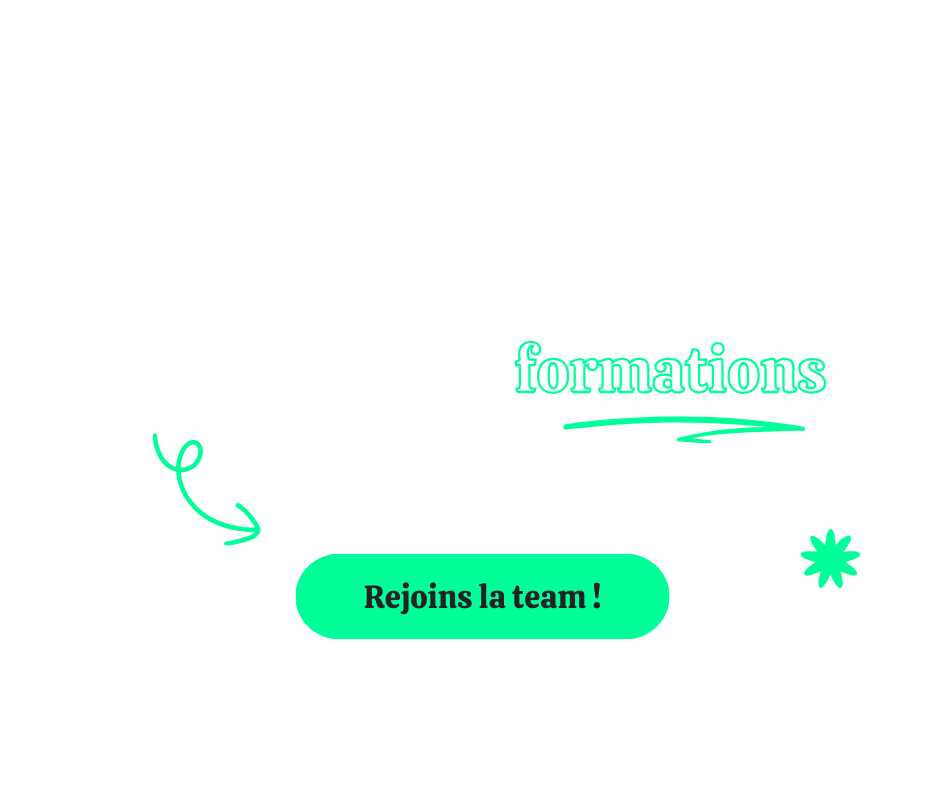
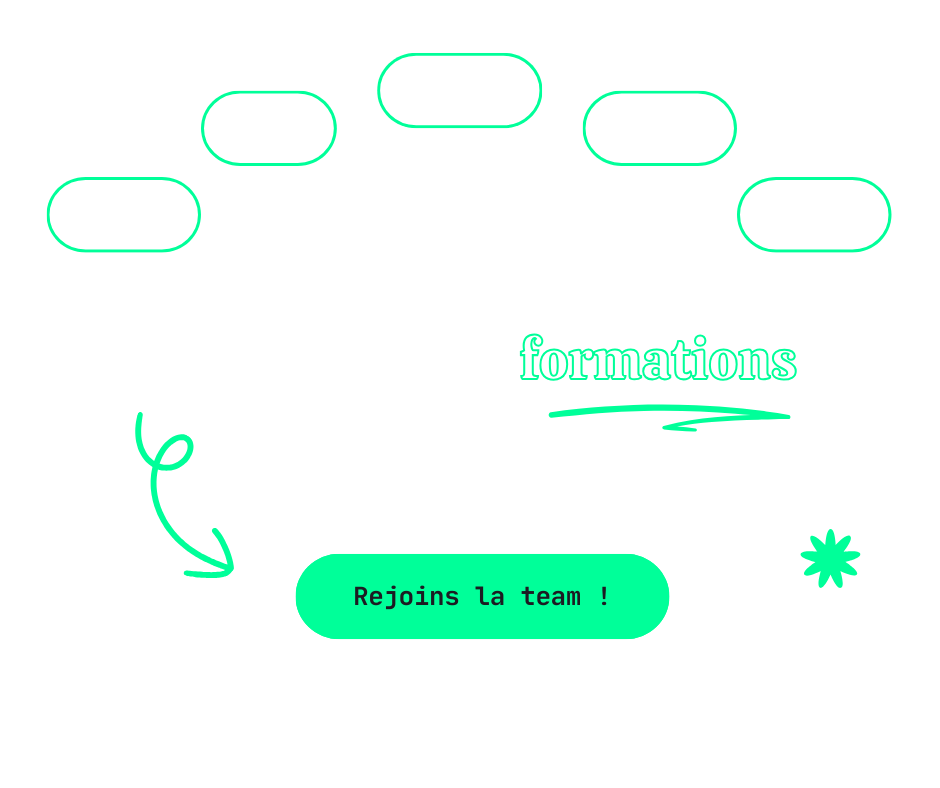
Change design

diff --git a/components/hero.tsx b/components/hero.tsx
@@ -2,9 +2,8 @@
 
 import React from "react";
 import { Button } from "@/components/ui/button";
-import { ArrowRight, ChevronDown } from "lucide-react";
+import { ArrowRight } from "lucide-react";
 import TrainingImg from "./formation-img";
-import Linkedin from "./ui/linkedin";
 
 const Hero: React.FC = () => {
   const scrollToSection = () => {
@@ -15,49 +14,42 @@ const Hero: React.FC = () => {
   };
 
   return (
-    <div className="lg:grid lg:grid-cols-12 lg:gap-8 items-center pb-28 pt-8 relative">
-      <div className="sm:text-center md:max-w-2xl md:mx-auto lg:col-span-6 lg:text-left">
-        <div className="flex items-center space-x-6">
-          <div className="bg-customGreen w-10 h-10 rounded-full rounded-tl-none group-hover:-translate-y-1 group-hover:shadow-xl group-hover:via-green-600 transition-all"></div>
-          <h1 className="text-2xl font-bold text-white/90 tracking-tight sm:text-3xl md:text-3xl">
-            Ton Partenaire Idéal pour
-            <span className="block text-customGreen">Créer et Maîtriser le Web</span>
-          </h1>
-        </div>
-        <p className="mt-3 text-base text-white/80 sm:mt-5 sm:text-xl lg:text-lg xl:text-xl">
-          Je t’accompagne à apprendre le métier de développeur et à devenir autonome, tout en
-          proposant mes services pour créer des solutions web accessibles et optimisées pour un SEO
-          exceptionnel.
-        </p>
-        <div className="mt-8 sm:max-w-lg sm:mx-auto sm:text-center lg:text-left lg:mx-0">
-          <div className="flex items-center gap-6">
-            <a
-              href="https://hanichezahir-portfolio.vercel.app/"
-              target="_blank"
-              rel="noopener noreferrer"
-            >
-              <Button className="justify-center whitespace-nowrap rounded-full font-semibold ring-offset-white transition-colors border border-customGreen 
-                    bg-transparent text-customGreen hover:bg-customGreen hover:text-primary h-[56px] px-8 text-sm tracking-[2px] uppercase flex items-center gap-2">
-                En Savoir Plus Sur Moi
-                <ArrowRight className="ml-2 h-5 w-5" />
-              </Button>
-            </a>
-            <Linkedin />
-          </div>
-        </div>
+    <div className="h-screen flex flex-col justify-center items-center text-center bg-transparent relative bottom-24">
+      <div className="flex items-center space-x-6 mb-4">
+        <div className="bg-customGreen w-1.5 h-24 border-full rounded-tl-none transition-all"></div>
+        <h1 className="text-3xl font-bold text-white tracking-tight sm:text-4xl md:text-5xl">
+          Ton Partenaire Idéal pour
+          <span className="block text-customGreen">Créer et Maîtriser le Web</span>
+        </h1>
+        <div className="bg-customGreen w-1.5 h-24 border-full rounded-tl-none transition-all"></div>
       </div>
-      <div className="mt-12 relative sm:max-w-lg sm:mx-auto lg:mt-0 lg:max-w-none lg:mx-0 lg:col-span-6 lg:flex lg:items-center">
-        <TrainingImg />
+      <p className="mt-3 text-lg text-white/80 sm:mt-5 sm:text-xl">
+        Je t’accompagne à apprendre le métier de développeur et à devenir autonome, tout en
+        proposant mes services pour créer des solutions web accessibles et optimisées pour un SEO
+        exceptionnel.
+      </p>
+      <div className="mt-8 flex justify-center">
+        <a
+          href="https://hanichezahir-portfolio.vercel.app/"
+          target="_blank"
+          rel="noopener noreferrer"
+        >
+          <Button className="justify-center whitespace-nowrap rounded-full font-semibold ring-offset-white transition-colors border border-customGreen 
+              bg-transparent text-customGreen hover:bg-customGreen hover:text-primary h-[56px] px-8 text-sm tracking-[2px] uppercase flex items-center gap-2">
+            En Savoir Plus Sur Moi
+            <ArrowRight className="ml-2 h-5 w-5" />
+          </Button>
+        </a>
       </div>
       <div
-        className="absolute bottom-4 left-1/2 transform -translate-x-1/2 cursor-pointer pb-8"
+        className="absolute bottom-10 left-1/2 transform -translate-x-1/2 cursor-pointer"
         onClick={scrollToSection}
       >
         <button
-          className="cursor-pointer bg-customGreen px-3 py-2 rounded-md text-gray-900 tracking-wider shadow-xl animate-bounce hover:animate-none"
+          className="bg-customGreen px-3 py-2 rounded-md text-gray-900 tracking-wider shadow-xl animate-bounce hover:animate-none"
         >
           <svg
-            className="w-5 h-5"
+            className="w-6 h-6"
             stroke="currentColor"
             strokeWidth="2"
             viewBox="0 0 24 24"

diff --git a/components/presentation.tsx b/components/presentation.tsx
@@ -3,28 +3,33 @@ import React from "react";
 
 const PresentationProfil: React.FC = () => {
   return (
-    <div className="max-w-7xl mx-auto px-4 sm:px-6 lg:px-8">
-        <div className="lg:grid lg:grid-cols-2 lg:gap-8 lg:items-center">
-            <div className="mt-8 lg:mt-0 flex justify-center lg:justify-end">
-                <a
-                href="https://github.com/leerob/next-saas-starter"
-                target="_blank"
-                rel="noopener noreferrer"
-                >
-                <Terminal />
-                </a> 
-            </div>
-            <div>
-                <h2 className="text-3xl font-bold text-white/90 sm:text-3xl">
-                Pourquoi choisir nos Services ?
-                </h2>
-                <p className="mt-3 max-w-3xl text-lg text-white/80">
-                Que vous soyez débutant ou professionnel, nous sommes là pour vous accompagner à chaque 
-                étape. De la formation pratique à la création de sites web sur mesure, nous nous engageons à vous fournir des solutions efficaces et adaptées à vos besoins.
-                </p>
-            </div>
+    <div className="max-w-7xl mx-auto px-4 sm:px-6 lg:px-10">
+      <div className="lg:grid lg:grid-cols-2 lg:gap-10 lg:items-center">
+        <div>
+          <h2 className="text-3xl font-bold text-white/90 sm:text-2xl">
+            Découvrez Mon Parcours
+          </h2>
+          <p className="mt-3 max-w-3xl text-sm text-white/80">
+            <span className="font-semibold text-customGreen">Plus de 10 ans d'expérience</span> en développement web.  
+            <br /> <br /> 
+            <span className="font-semibold text-customGreen">Expert en solutions numériques innovantes</span>, performantes et sur mesure.  
+            <br /> <br /> 
+            <span className="font-semibold text-customGreen">J'accompagne entreprises et startups </span>pour des sites web accessibles, optimisés et prêts à booster leur réussite.
+          </p>
+
+         
         </div>
-        <div className="border-b border-white/20 w-full py-8"></div>
+        <div className="mt-8 lg:mt-0 flex justify-center lg:justify-end">
+          <a
+            href="https://github.com/ZahirHaniche-dev"
+            target="_blank"
+            rel="noopener noreferrer"
+          >
+            <Terminal />
+          </a>
+        </div>
+      </div>
+      <div className="bg-customGreen w-full h-0.5 rounded-lg border-full rounded-tl-none transition-all my-20"></div>
     </div>
   );
 };

diff --git a/components/why.tsx b/components/why.tsx
@@ -3,20 +3,28 @@ import DesktopImg from './desktop-img ';
 
 const Why: React.FC = () => {
   return (
-    <div className="lg:grid lg:grid-cols-2 lg:gap-8 lg:items-center">
-      <div>
-        <h2 className="text-3xl font-bold text-white/90 sm:text-3xl">
-          Pourquoi choisir nos Services ?
-        </h2>
-        <p className="mt-3 max-w-3xl text-lg text-white/80">
-          Que vous soyez débutant ou professionnel, nous sommes là pour vous accompagner à chaque 
-          étape. De la formation pratique à la création de sites web sur mesure, nous nous engageons à vous fournir des solutions efficaces et adaptées à vos besoins.
-        </p>
+    <>
+      <div className="lg:grid lg:grid-cols-2 lg:gap-8 lg:items-center">
+        <div className="mt-8 lg:mt-0 flex justify-center">
+          <DesktopImg />
+        </div>
+        <div>
+          <h2 className="text-3xl font-bold text-white/90 sm:text-2xl">
+            Pourquoi choisir nos formations ?
+          </h2>
+          <p className="mt-3 max-w-3xl text-sm text-white/80">
+            Que vous soyez débutant ou en quête de perfectionnement, <span className="font-semibold text-customGreen">nos formations en développement web sont conçues pour vous faire maîtriser les bases et les technologies avancées</span>.
+            <br /> <br />
+            Apprenez à créer des sites web modernes et performants en utilisant les frameworks front-end les plus populaires comme <span className="font-semibold text-customGreen">React, Vue.js et Angular, ainsi que Node.js pour le développement back-end</span>.
+            <br /> <br />
+            Nos cours incluent des pratiques sur la conception, <span className="font-semibold text-customGreen">l'accessibilité, le SEO, et l'intégration des outils indispensables à tout développeur</span>. 
+            <br /> <br />
+            Rejoignez-nous pour bénéficier d'un apprentissage personnalisé et devenir un expert en développement web, prêt à relever tous les défis.
+          </p>
+        </div>
       </div>
-      <div className="mt-8 lg:mt-0 flex justify-center lg:justify-end">
-        <DesktopImg />
-      </div>
-    </div>
+      <div className="bg-customGreen w-full h-0.5 rounded-lg border-full rounded-tl-none transition-all"></div>
+    </>
   );
 };
 

diff --git a/components/ui/linkedin.tsx b/components/ui/linkedin.tsx
@@ -3,7 +3,7 @@
 const Linkedin = () => {
   return (
     <button
-      className="group hover:bg-sky-600 relative bg-sky-700 text-neutral-50 duration-500 font-bold flex justify-start gap-2 items-center p-2 pr-6 rounded-sm"
+      className="group fixed bottom-8 right-8 hover:bg-sky-600 bg-sky-700 text-neutral-50 duration-500 font-bold flex justify-start gap-2 items-center p-2 pr-6 rounded-sm z-50"
     >
       <svg
         className="w-8 h-8 fill-neutral-50"
@@ -19,16 +19,11 @@ const Linkedin = () => {
       </svg>
       <span className="border-l-2 pl-4 flex items-center">
         LinkedIn
-        <span className="relative flex h-3 w-3 ml-4 ">
+        <span className="relative flex h-3 w-3 ml-4">
           <span className="animate-ping absolute inline-flex h-full w-full rounded-full bg-sky-400 opacity-75"></span>
-          <span className="relative inline-flex rounded-full h-3 w-3  bg-customGreen"></span>
+          <span className="relative inline-flex rounded-full h-3 w-3 bg-customGreen"></span>
         </span>
       </span>
-      <div
-        className="group-hover:opacity-100 opacity-0 top-16 absolute z-10 inline-block px-3 py-2 text-sm font-medium text-white transition-opacity duration-500 bg-sky-600 rounded-lg shadow-sm before:w-3 before:h-3 before:rotate-45 before:-top-1 before:left-20 before:bg-sky-600 before:absolute"
-      >
-        Regarde mon profil !
-      </div>
     </button>
   );
 };

diff --git a/app/(dashboard)/terminal.tsx b/app/(dashboard)/terminal.tsx
@@ -7,11 +7,12 @@ export function Terminal() {
   const [terminalStep, setTerminalStep] = useState(0);
   const [copied, setCopied] = useState(false);
   const terminalSteps = [
-  'Donnons vie à votre projet web...',
-  'Suivez notre formation pour maîtriser les bases.',
-  'Lancement du serveur de développement... 🚀 ',
-  'Votre projet est prêt ! Nous sommes là pour vous accompagner... 🎉',
-];
+    'git add VotreProjet.tsx',
+    'git commit -m "Formation en cours..."',
+    'git push',
+    'Félicitations ! Votre projet est prêt à impressionner le monde 🎉.'
+  ];
+  
 
 
   useEffect(() => {
@@ -31,7 +32,7 @@ export function Terminal() {
   };
 
   return (
-    <div className="w-full rounded-lg shadow-lg overflow-hidden bg-gray-900 text-white font-mono text-base relative">
+    <div className="w-full rounded-lg shadow-lg overflow-hidden border-b-4 border-r-4 hover:border-b-2 hover:border-r-2 border-customGreen bg-gray-900 text-white font-mono text-sm relative">
       <div className="p-4">
         <div className="flex justify-between items-center mb-4">
           <div className="flex space-x-2">

diff --git a/app/layout.tsx b/app/layout.tsx
@@ -3,6 +3,7 @@ import type { Metadata, Viewport } from 'next';
 import { JetBrains_Mono } from 'next/font/google';
 import { UserProvider } from '@/lib/auth';
 import { getUser } from '@/lib/db/queries';
+import Linkedin from '@/components/ui/linkedin';
 
 const jetbrainsMono = JetBrains_Mono({
   subsets: ['latin'],
@@ -30,10 +31,11 @@ export default function RootLayout({
   return (
     <html
       lang="en"
-      className={`bg-white dark:bg-gray-950 text-black dark:text-white ${jetbrainsMono.className}`}
+      className={`bg-white dark:bg-gray-950 text-black dark:text-white  ${jetbrainsMono.className}`}
     >
-      <body className="min-h-[100dvh] ">
+      <body className="space-bg min-h-[100dvh] overflow-auto">
         <UserProvider userPromise={userPromise}>{children}</UserProvider>
+        <Linkedin  />
       </body>
     </html>
   );

diff --git a/app/globals.css b/app/globals.css
@@ -59,6 +59,12 @@
   }
 }
 
+html,
+body {
+  overflow: auto;
+  height: auto;
+}
+
 @layer base {
   * {
     @apply border-border;
@@ -66,6 +72,33 @@
 
   body {
     @apply bg-background text-foreground;
+  }
+}
+
+.space-bg {
+  background: linear-gradient(to bottom, #32323b, black);
+  position: relative;
+  overflow: hidden;
+}
+
+.space-bg::before {
+  content: '';
+  position: absolute;
+  top: 0;
+  left: 0;
+  width: 200%;
+  height: 200%;
+  background: radial-gradient(circle, rgba(255, 255, 255, 0.15) 1px, transparent 1px);
+  background-size: 50px 50px;
+  animation: stars-move 50s linear infinite;
+}
+
+@keyframes stars-move {
+  from {
+    transform: translateY(0);
+  }
+  to {
+    transform: translateY(-100%);
   }
 }
 

diff --git a/app/(dashboard)/layout.tsx b/app/(dashboard)/layout.tsx
@@ -41,10 +41,16 @@ function Header() {
 
         <div className="flex items-center space-x-11 z-10">
           <Link
+            href="/dev"
+            className="text-customGreen border-b-2 border-customGreen capitalize font-medium hover:text-customGreen transition-all"
+          >
+            Mes Services
+          </Link>
+          <Link
             href="/training"
             className="text-customGreen border-b-2 border-customGreen capitalize font-medium hover:text-customGreen transition-all"
           >
-            Formations
+            Mes Formations
           </Link>
           {user ? (
             <DropdownMenu open={isMenuOpen} onOpenChange={setIsMenuOpen}>

diff --git a/app/(dashboard)/page.tsx b/app/(dashboard)/page.tsx
@@ -11,14 +11,15 @@ export default function HomePage() {
           <Hero />
         </div>
       </section>
-      <section className="pb-12 pt-8 w-full"  id="next-section">
-        <PresentationProfil />
-      </section>
-      <section className="pb-16 w-full">
+      <section className="pb-16 w-full" id="next-section">
         <div className="max-w-7xl mx-auto px-4 sm:px-6 lg:px-12">
           <Why />
         </div>
       </section>
+      <section className="pb-12 pt-8 w-full">
+        <PresentationProfil />
+      </section>
+      
     </main>
   );
 }

diff --git a/components/desktop-img .tsx b/components/desktop-img .tsx
@@ -5,9 +5,9 @@ const DesktopImg = () => {
   return (
     <section className='flex flex-col justify-center py-12 xl:py-0'>
           <img 
-            src="/assets/desktop_tech.png" 
+            src="/assets/formation_join.png" 
             alt="Rejoins-nous et découvre mes formations" 
-            className="mx-auto w-[350px]"
+            className="mx-auto w-max"
           />
     </section>
   );

diff --git a/tailwind.config.ts b/tailwind.config.ts
@@ -56,6 +56,8 @@ const config: Config = {
         },
         // Ajout de la couleur personnalisée
         customGreen: '#00FF99',
+        customYellow: '#ffde59',
+        
       },
     },
   },
